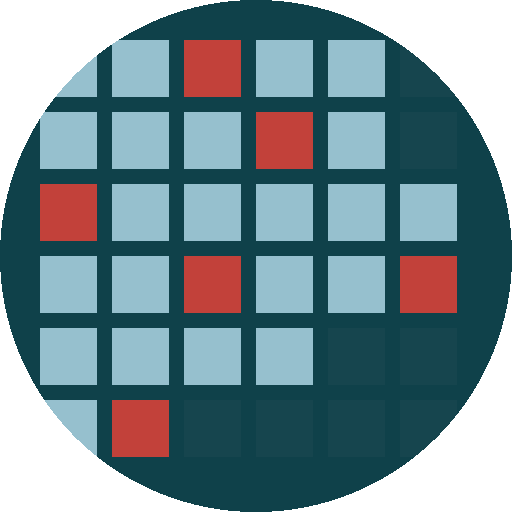
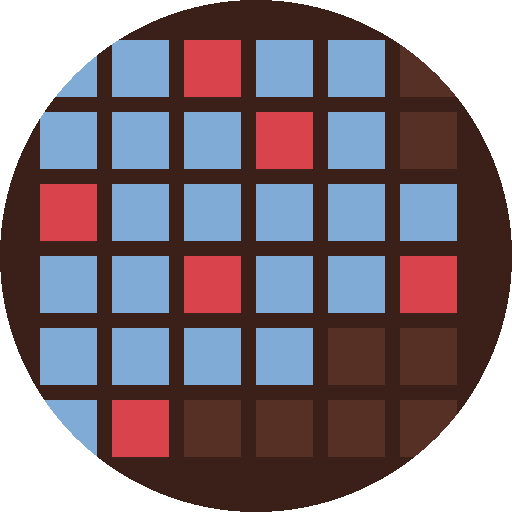
Shift to the sand / blue / red / brown palette
sand   #e2d9bc  the sheet
  brown  #683629  the ink — headings, rules, cell outlines
  blue   #80abd7  a good day
  red    #b20e19  a rough day

Blue and red carry good and rough rather than brown and red, which are
the two darkest colours in the set and would have been hard to tell
apart at the 12px cells of the weeks view. Blue against red separates on
hue and on lightness, which also keeps it legible for the commonest
forms of colour blindness; the colour-blind option swaps red for burnt
orange for the cases where blue is the difficulty.

Two colours are derived, since four cannot cover six roles: a warm
neutral for an even split — the "grey memory" between good and rough —
and a paler sand for years lived but never recorded.

Phase markers walk the same family cool to warm across a life while
avoiding the exact blue and red, so a phase can never be misread as a
cell. Dark mode turns the set inside out, brown as the sheet.

diff --git a/css/styles.css b/css/styles.css
@@ -18,21 +18,21 @@
  * ------------------------------------------------------------------ */
 
 :root {
-  --bg: #efe8df;              /* alabaster — the sheet */
-  --surface: rgba(255, 253, 250, 0.5);
-  --border: rgba(15, 65, 74, 0.18);
-  --text: #0f414a;            /* midnight blue, used as the ink */
-  --muted: #4f676d;
-  --accent: #0f414a;
+  --bg: #e2d9bc;              /* sand — the sheet */
+  --surface: rgba(255, 252, 240, 0.42);
+  --border: rgba(104, 54, 41, 0.22);
+  --text: #683629;            /* brown, used as the ink */
+  --muted: #7d6a54;
+  --accent: #683629;
 
-  --good: #0f414a;            /* midnight blue: the poster's solid cells */
-  --bad: #7f0303;             /* maroon */
-  --tie: #96c0ce;             /* light blue — a genuine middle, not a grey */
-  --past: #d8ba98;            /* tan: lived, nothing recorded */
+  --good: #80abd7;            /* blue */
+  --bad: #b20e19;             /* red */
+  --tie: #9c8f7c;             /* a warm neutral: genuinely neither */
+  --past: #cfc4a6;            /* lived, nothing recorded */
   --future: transparent;      /* unlived cells are an outline only */
-  --future-line: rgba(15, 65, 74, 0.32);
+  --future-line: rgba(104, 54, 41, 0.34);
 
-  --grain: 0.5;
+  --grain: 0.45;
   --fibre: 0.1;
   --grain-blend: multiply;
 
@@ -40,13 +40,13 @@
   --gap: 0.25rem;
 }
 
-/* Midnight blue against maroon already survives red-green colour blindness,
-   since it differs in hue *and* lightness. This swaps the red for an amber, so
-   the pair also separates for anyone who struggles with blue. */
+/* Blue against red already survives red-green colour blindness, since the two
+   differ in hue and in lightness. This swaps the red for a burnt orange so the
+   pair also separates for anyone whose difficulty is blue. */
 body[data-palette="cbSafe"] {
-  --good: #0f414a;
-  --bad: #b35c00;
-  --tie: #96c0ce;
+  --good: #80abd7;
+  --bad: #a8551b;
+  --tie: #9c8f7c;
 }
 
 /* Toned paper rather than a slab of black, so the texture still reads.
@@ -60,18 +60,18 @@ body[data-palette="cbSafe"] {
  * The default is neither: it is paper, whatever the OS prefers.
  */
 :root[data-theme="dark"] {
-  --bg: #0b323a;
-  --surface: rgba(239, 232, 223, 0.05);
-  --border: rgba(239, 232, 223, 0.18);
-  --text: #efe8df;
-  --muted: #97b3ba;
-  --accent: #efe8df;
+  --bg: #3b2019;              /* the brown, deepened into a sheet */
+  --surface: rgba(226, 217, 188, 0.06);
+  --border: rgba(226, 217, 188, 0.2);
+  --text: #e2d9bc;
+  --muted: #a8977c;
+  --accent: #e2d9bc;
 
-  --good: #96c0ce;            /* light blue reads as the positive on dark */
-  --bad: #c2413a;             /* maroon lifted enough to stay legible */
-  --tie: #6d8d95;
-  --past: #16454e;
-  --future-line: rgba(239, 232, 223, 0.24);
+  --good: #80abd7;
+  --bad: #d8434c;             /* red lifted enough to stay legible on brown */
+  --tie: #9c8f7c;
+  --past: #563025;
+  --future-line: rgba(226, 217, 188, 0.26);
 
   --grain: 0.3;
   --fibre: 0.09;
@@ -79,32 +79,32 @@ body[data-palette="cbSafe"] {
 }
 
 :root[data-theme="dark"] body[data-palette="cbSafe"] {
-  --good: #96c0ce;
-  --bad: #e0794a;
+  --good: #80abd7;
+  --bad: #d8894a;
 }
 
 @media (prefers-color-scheme: dark) {
   :root[data-theme="auto"] {
-    --bg: #0b323a;
-    --surface: rgba(239, 232, 223, 0.05);
-    --border: rgba(239, 232, 223, 0.18);
-    --text: #efe8df;
-    --muted: #97b3ba;
-    --accent: #efe8df;
+    --bg: #3b2019;              /* the brown, deepened into a sheet */
+    --surface: rgba(226, 217, 188, 0.06);
+    --border: rgba(226, 217, 188, 0.2);
+    --text: #e2d9bc;
+    --muted: #a8977c;
+    --accent: #e2d9bc;
 
-    --good: #96c0ce;            /* light blue reads as the positive on dark */
-    --bad: #c2413a;             /* maroon lifted enough to stay legible */
-    --tie: #6d8d95;
-    --past: #16454e;
-    --future-line: rgba(239, 232, 223, 0.24);
+    --good: #80abd7;
+    --bad: #d8434c;             /* red lifted enough to stay legible on brown */
+    --tie: #9c8f7c;
+    --past: #563025;
+    --future-line: rgba(226, 217, 188, 0.26);
 
     --grain: 0.3;
     --fibre: 0.09;
     --grain-blend: overlay;
   }
   body[data-palette="cbSafe"] {
-    --good: #96c0ce;
-    --bad: #e0794a;
+    --good: #80abd7;
+    --bad: #d8894a;
   }
 }
 

diff --git a/js/core.js b/js/core.js
@@ -155,15 +155,16 @@
   // and pure midnight are deliberately absent: those two mean "rough day" and
   // "good day", and a phase marker must never be mistaken for a cell.
   var DEFAULT_PHASES = [
-    { label: 'Childhood',   from: 0,  to: 13, color: '#96c0ce' },
-    { label: 'Teenage',     from: 13, to: 20, color: '#5f97a4' },
-    { label: 'College',     from: 20, to: 23, color: '#2b6470' },
-    { label: 'Twenties',    from: 23, to: 30, color: '#d8ba98' },
-    { label: 'Thirties',    from: 30, to: 40, color: '#bf9264' },
-    { label: 'Forties',     from: 40, to: 50, color: '#a8604a' },
-    { label: 'Fifties',     from: 50, to: 60, color: '#8d4038' },
-    { label: 'Later years', from: 60, to: 90, color: '#8a8279' }
+    { label: 'Childhood',   from: 0,  to: 13, color: '#a7c4e0' },
+    { label: 'Teenage',     from: 13, to: 20, color: '#6e96c2' },
+    { label: 'College',     from: 20, to: 23, color: '#46688f' },
+    { label: 'Twenties',    from: 23, to: 30, color: '#c9b98f' },
+    { label: 'Thirties',    from: 30, to: 40, color: '#b08a5e' },
+    { label: 'Forties',     from: 40, to: 50, color: '#96603c' },
+    { label: 'Fifties',     from: 50, to: 60, color: '#7a4433' },
+    { label: 'Later years', from: 60, to: 90, color: '#8a7f6e' }
   ];
+
 
   /**
    * State shape (v2):
@@ -207,7 +208,7 @@
       label: String(raw.label == null ? '' : raw.label).slice(0, 40),
       from: from,
       to: to,
-      color: HEX_RE.test(raw.color) ? raw.color : '#8a8279'
+      color: HEX_RE.test(raw.color) ? raw.color : '#8a7f6e'
     };
   }
 

diff --git a/test/core.test.js b/test/core.test.js
@@ -217,7 +217,7 @@ eq('cleanPhases rejects non-array', LT.cleanPhases('nope'), null);
 eq('cleanPhases caps at 20', LT.cleanPhases(
   Array.from({ length: 40 }, (_, i) => ({ label: 'p' + i, from: i, to: i + 1 }))).length, 20);
 eq('cleanPhases defaults a bad colour',
-   LT.cleanPhases([{ label: 'x', from: 0, to: 9, color: 'octarine' }])[0].color, '#8a8279');
+   LT.cleanPhases([{ label: 'x', from: 0, to: 9, color: 'octarine' }])[0].color, '#8a7f6e');
 eq('cleanPhases keeps a good colour',
    LT.cleanPhases([{ label: 'x', from: 0, to: 9, color: '#Ab12Cd' }])[0].color, '#Ab12Cd');
 eq('cleanPhases truncates a long label',

diff --git a/index.html b/index.html
@@ -5,7 +5,7 @@
   <title>Your Life in Colour — Lifetime Tracking</title>
   <meta name="description" content="Log every day as good or bad, and watch your whole life fill in. Days roll up into weeks, weeks into months, months into years.">
   <meta name="viewport" content="width=device-width, initial-scale=1, viewport-fit=cover">
-  <meta name="theme-color" content="#efe8df">
+  <meta name="theme-color" content="#e2d9bc">
   <link rel="manifest" href="manifest.webmanifest">
   <link rel="icon" href="icons/icon-192.png" sizes="192x192">
   <link rel="apple-touch-icon" href="icons/icon-192.png">

diff --git a/js/app.js b/js/app.js
@@ -857,8 +857,8 @@
     renderPhaseEditor();
   }
 
-  var PHASE_COLORS = ['#96c0ce', '#5f97a4', '#2b6470', '#d8ba98',
-                      '#bf9264', '#a8604a', '#8d4038', '#8a8279'];
+  var PHASE_COLORS = ['#a7c4e0', '#6e96c2', '#46688f', '#c9b98f',
+                      '#b08a5e', '#96603c', '#7a4433', '#8a7f6e'];
 
   /* ------------------------------------------------------------------ *
    * Sync

diff --git a/tools/make_icons.py b/tools/make_icons.py
@@ -3,10 +3,10 @@ import struct
 import zlib
 import os
 
-BG = (15, 65, 74)        # midnight blue
-GOOD = (150, 192, 206)   # light blue reads as 'good' on dark
-BAD = (194, 65, 58)      # lifted maroon
-PAST = (22, 69, 78)      # lived, unlogged
+BG = (59, 32, 25)        # brown
+GOOD = (128, 171, 215)   # blue
+BAD = (216, 67, 76)      # lifted red
+PAST = (86, 48, 37)      # lived, unlogged
 
 # 6x6 lattice of a life: mostly logged, a few rough days, a tail not yet lived.
 PATTERN = [

diff --git a/README.md b/README.md
@@ -37,7 +37,7 @@ Two things follow from counting *verdicts* rather than raw days:
 - A month is decided by its weeks, not its days. Three good weeks with one logged day each
   beat one rough week with twenty — the month is good. This is what you asked for, and it
   means a single terrible stretch can't drag down a month that was otherwise fine.
-- An exact split is a **tie** (light blue), and a tie doesn't vote in the level above it.
+- An exact split is a **tie** (a warm neutral), and a tie doesn't vote in the level above it.
   Neither does a period with nothing logged. Blank stays blank all the way up.
 
 ### The calendar approximations
@@ -86,19 +86,22 @@ not lived yet are an outline only; logged ones are solid. The paper grain is two
 noise fields — fine tooth over long fibres — so it costs nothing to download and works
 offline like the rest of the app.
 
-Five colours do all the work:
+Four colours do all the work:
 
 | | | |
 |---|---|---|
-| Alabaster | `#efe8df` | the sheet |
-| Midnight blue | `#0f414a` | the ink — headings, rules, and a **good** day |
-| Maroon | `#7f0303` | a **rough** day |
-| Light blue | `#96c0ce` | an **even split** |
-| Tan | `#d8ba98` | **lived, nothing recorded** |
+| Sand | `#e2d9bc` | the sheet |
+| Brown | `#683629` | the ink — headings, rules, outlines |
+| Blue | `#80abd7` | a **good** day |
+| Red | `#b20e19` | a **rough** day |
 
-Phase markers are drawn from the same family but never use pure midnight or pure maroon —
-those two mean good and rough, and a phase marker must not be mistaken for a cell. Dark mode
-turns the palette inside out: midnight becomes the paper and light blue becomes the ink.
+Two are derived from them: a warm neutral `#9c8f7c` for an **even split**, and a paler sand
+`#cfc4a6` for **lived, nothing recorded**.
+
+Phase markers walk the same family from cool to warm across a life, but never use the exact
+blue or red — those two mean good and rough, and a phase marker must not be mistaken for a
+cell. Dark mode turns the palette inside out: the brown becomes the sheet and the sand
+becomes the ink.
 
 Because phases are stored with your data, changing the defaults doesn't recolour phases you
 already have. **Settings → Reset to defaults** picks up the new set.
